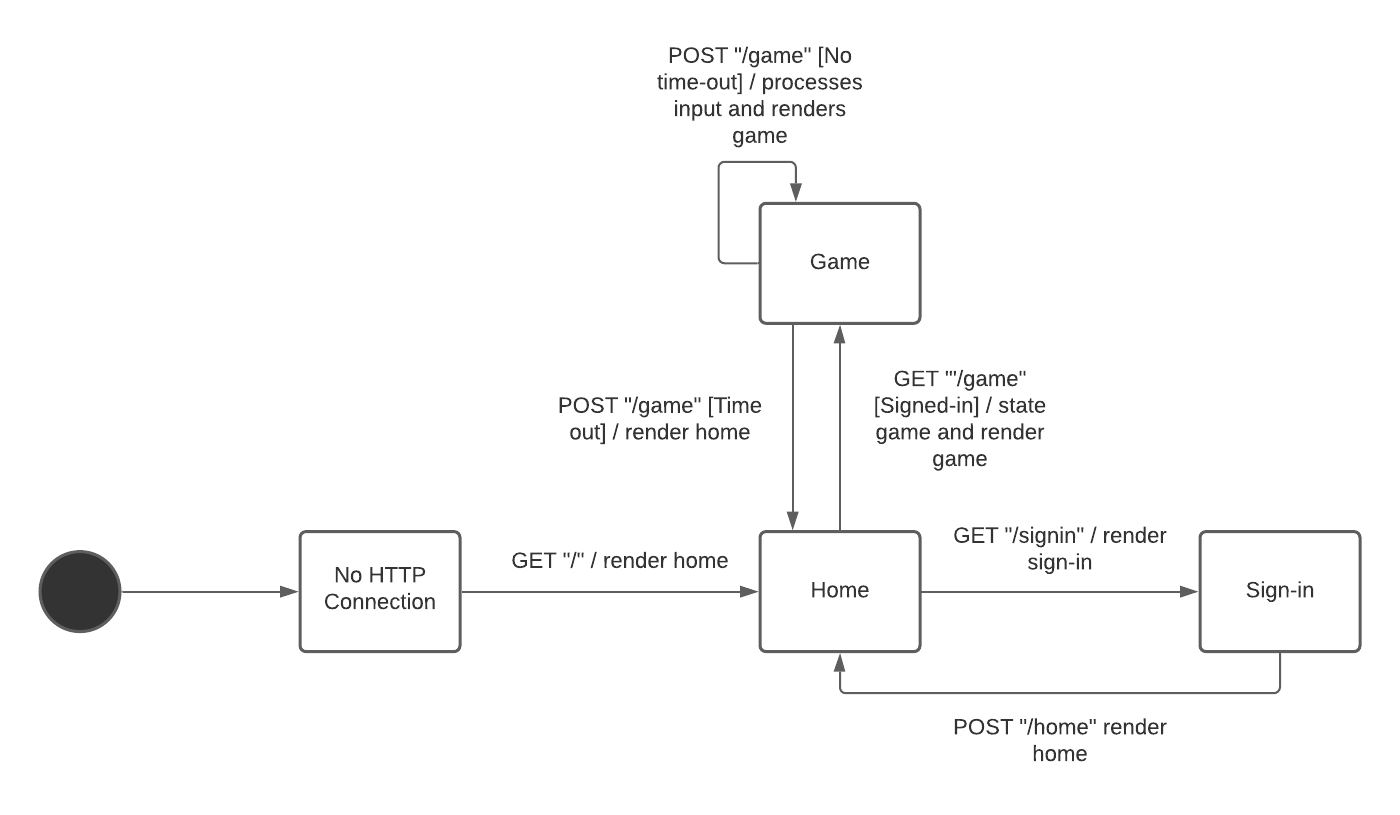
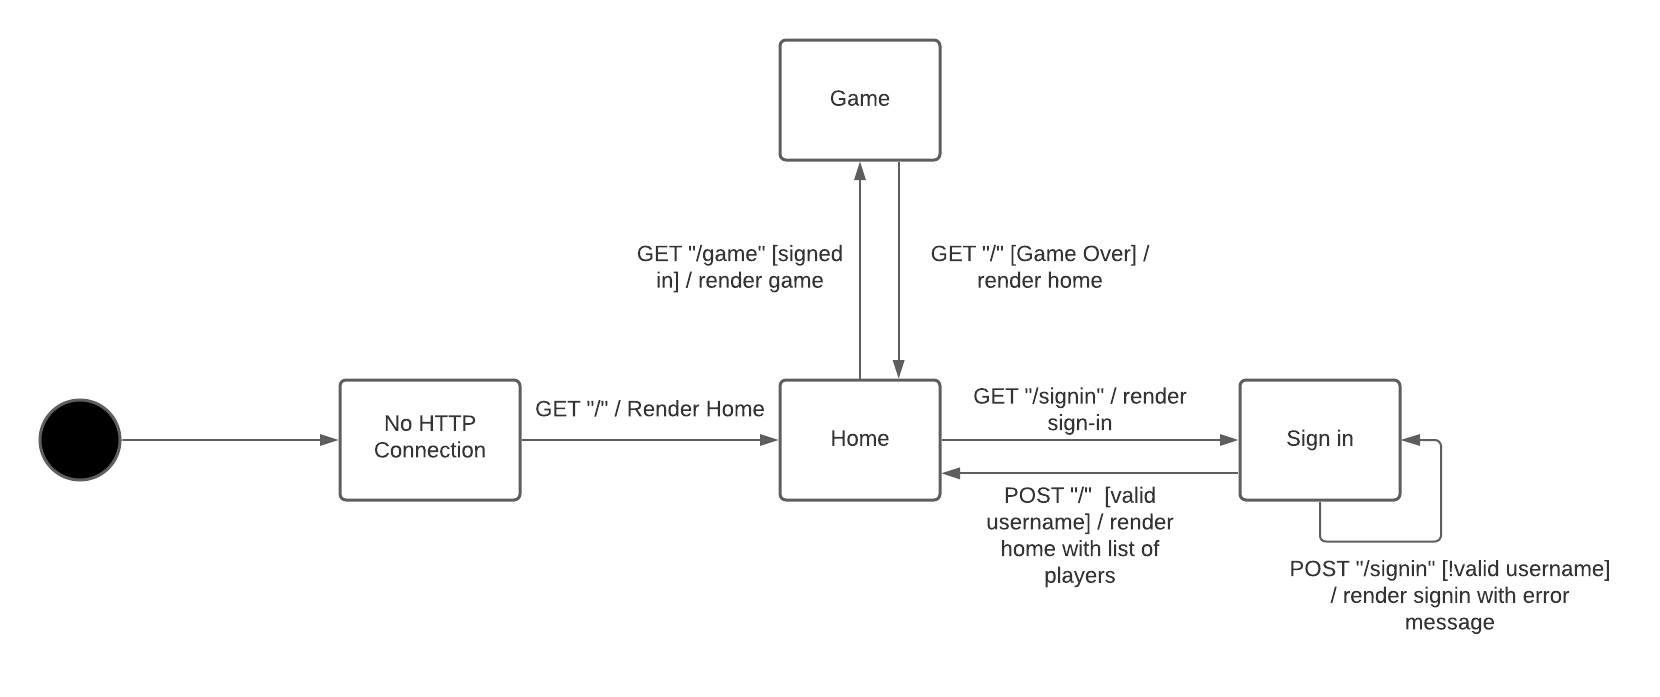
Updated Design documentation

diff --git a/docs/DesignDoc.md b/docs/DesignDoc.md
@@ -42,14 +42,20 @@ This section describes the features of the application.
 > maybe Epics and critical Stories._
 
 ### Definition of MVP
-> _Provide a simple description of the Minimum Viable Product._
+The Minimum Viable Product of Web Checkers is an app that allows two players to play a full game of checkers together
+with the American rules. 
 
 ### MVP Features
-> _Provide a list of top-level Epics and/or Stories of the MVP._
+* Sign in/out
+* Select another player to enter a game with
+* Move pieces
+* Jump and take opponent's pieces
+* Create kings by pieces to the opposite side of the board
+* Win/lose a game when a player's pieces are all gone
 
 ### Roadmap of Enhancements
-> _Provide a list of top-level features in the order you plan to consider them._
-
+* An AI player for the user to play against
+* A spectator mode that allows the user to see a match between two other players
 
 ## Application Domain
 
@@ -101,64 +107,81 @@ they go back to the Homepage.
 
 
 ### UI Tier
-> _Provide a summary of the Server-side UI tier of your architecture.
-> Describe the types of components in the tier and describe their
-> responsibilities.  This should be a narrative description, i.e. it has
-> a flow or "story line" that the reader can follow._
 
-> _At appropriate places as part of this narrative provide one or more
-> static models (UML class structure or object diagrams) with some
-> details such as critical attributes and methods._
+The UI tier follows a relatively simple architecture. Each class handles its own route (eg POST /signin). The route will
+perform some logic, getting and sending data to and from the application tier, and either render a page for the user
+to see or redirecting them to a new route where that route will then take over. 
 
-> _You must also provide any dynamic models, such as statechart and
-> sequence diagrams, as is relevant to a particular aspect of the design
-> that you are describing.  For example, in WebCheckers you might create
-> a sequence diagram of the `POST /validateMove` HTTP request processing
-> or you might show a statechart diagram if the Game component uses a
-> state machine to manage the game._
+When the user first opens the web application, they will get the home page via `GET /`. The GetHomeRoute handler looks in
+the application tier to see if the user is signed in. Because the user isn't, they will be shown a link to `GET /signin`
+where they can sign in, and will only be shown a number of players for privacy reasons. The GetSignInRoute handler will
+render the sign in page for the user, and provide a text box for them to enter a username. The sign-in button will perform
+a `POST /signin`, where the PostSignInHandler will interact with the HTTP session and the PlayerLobby to attempt to 
+sign in the player. If successful, they're redirected to the home page. If not, they're sent back to the sign-in page.
 
-> _If a dynamic model, such as a statechart describes a feature that is
-> not mostly in this tier and cuts across multiple tiers, you can
-> consider placing the narrative description of that feature in a
-> separate section for describing significant features. Place this after
-> you describe the design of the three tiers._
+Back in the home page, the user has two options. They can sign back out, performing a `POST /signout` where the
+PostSignOutRoute handler will interact with `PlayerLobby` to sign the user out. They can also select a player from a
+list of signed-in players to start a match with. If the user is already in a match, they'll be shown an error message.
+Otherwise, it will perform a `GET /game` and interact with `GameCenter` to start a match between the user and another player.
 
+In the match, the user will check to see if it's their turn via `POST /checkTurn`. This route handler will perform that
+check by interacting with `GameCenter`. If it's the user's turn, they'll be able
+to move a piece. When the user moves a piece, it'll perform a `POST /validateMove` to check if the move is valid (eg. if
+the player performed any necessary jumps). If the move isn't valid, it will put the piece back and describe why. If it was
+valid, they'll have to option to either submit the move or back up, performing a `POST /submitTurn` or `POST /backupMove`
+respectively. These route handlers all interact with `GameCenter` and `Board` to perform these operations. 
+
+Eventually, one player's pieces will all be gone. Checks in the `PostCheckTurnRoute` will look for this and notify the
+user of their win or loss. They will then have the option to go back to the home screen.
 
 ### Application Tier
-> _Provide a summary of the Application tier of your architecture. This
-> section will follow the same instructions that are given for the UI
-> Tier above._
 
+There are two classes that allow the route handlers to interact with the model tier and perform game logic. The user
+will initially interact with the `PlayerLobby`, where all player and sign-in related features are handled. When a user 
+signs in, signs out, or selects another player to create a match with, the `PlayerLobby` will handle these. The `PlayerLobby`
+itself interacts with Model tier through `Player`. 
+
+During a match, the user (and therefore the route handlers in the UI tier) interact with `GameCenter`. This class performs
+all game related operations, from creating a game to providing methods to move pieces. The `GameCenter` interacts with the
+rest of the Model tier (eg. `Board`, `Game`, `Piece`, etc). 
 
 ### Model Tier
-> _Provide a summary of the Application tier of your architecture. This
-> section will follow the same instructions that are given for the UI
-> Tier above._
+
+The Model tier holds the classes for the application's data and logic. 
+
+The `Game` class represents a match, and has two `Player`'s and a `Board`. The `Board` has a list of `Row`s, and each row has
+a list of `Space`s. Each `Space` has a color, and can either be an empty `WhiteSpace` or a `BlackSpace` with or without
+a `Piece` on it. Each `Piece` has a `Position` and can be either a `RedKingPiece`, `WhiteKingPiece`, `RedSinglePiece`,
+or `RedKingPiece`. A move by the player is represented by the `Move` class.
+
+![Model tier class diagram](model_tier.png)
 
 ### Design Improvements
-> _Discuss design improvements that you would make if the project were
-> to continue. These improvement should be based on your direct
-> analysis of where there are problems in the code base which could be
-> addressed with design changes, and describe those suggested design
-> improvements. After completion of the Code metrics exercise, you
+> After completion of the Code metrics exercise, you
 > will also discuss the resutling metric measurements.  Indicate the
 > hot spots the metrics identified in your code base, and your
 > suggested design improvements to address those hot spots._
 
+* Remove the use of enumerations in the `Piece` class
+* Remove the WinType enumeration
+* Utilize the `Position` class more throughout the code base
+* Refactor the `Move` class to make it less abusable
+* Fix a number of Law of Demeter violations, but without overcomplicating classes
+* Move some of the logic from the route handlers to the application tier or model tier
+
 ## Testing
-> _This section will provide information about the testing performed
-> and the results of the testing._
+
+We have 184 unit tests and they all pass. We also run the application ourselves and play through games of checkers to
+make sure they play correctly. 
 
 ### Acceptance Testing
-> _Report on the number of user stories that have passed all their
-> acceptance criteria tests, the number that have some acceptance
-> criteria tests failing, and the number of user stories that
-> have not had any testing yet. Highlight the issues found during
-> acceptance testing and if there are any concerns._
+
+We have 10 user stories, 41 acceptance testing criteria and all of them passes without issue. All of the user stories
+had acceptance testing done. Our only concern is that when a game ends, only one user can see that the game ended. The
+other user is sent to the home page without an error.
 
 ### Unit Testing and Code Coverage
-> _Discuss your unit testing strategy. Report on the code coverage
-> achieved from unit testing of the code base. Discuss the team's
-> coverage targets, why you selected those values, and how well your
-> code coverage met your targets. If there are any anomalies, discuss
-> those._
+
+We hope to meet the code coverage requirements listed on the rubric, which is 90%. We currently have 94% of instructions
+covered and 91% of branches covered. All of our unit tests pass. For Sprint 3, our strategy will be to write the unit
+tests before we write the code.  
